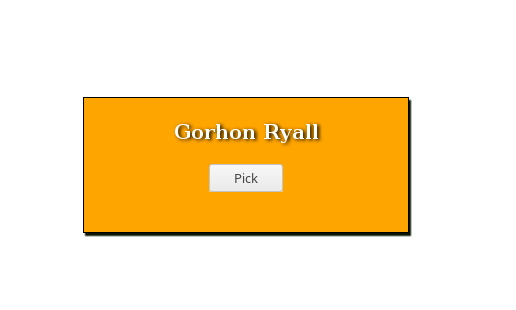
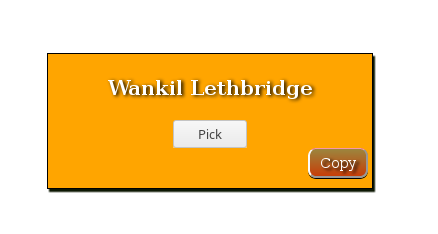
Copy to clipboard

Changed region(s): [[0.089, 0.2094, 0.8607, 0.8376], [0.3858, 0.5085, 0.5639, 0.6581]]

diff --git a/RandomNamePicker/web/templates/index.html b/RandomNamePicker/web/templates/index.html
@@ -28,16 +28,62 @@
         p{
             font-size: 20px;
        }
+       button {
+            margin-left: 80%;
+            border-top: 1px solid #f797a9;
+            background: #c73e08;
+            background: -webkit-gradient(linear, left top, left bottom, from(#9c863e), to(#c73e08));
+            background: -webkit-linear-gradient(top, #9c863e, #c73e08);
+            background: -moz-linear-gradient(top, #9c863e, #c73e08);
+            background: -ms-linear-gradient(top, #9c863e, #c73e08);
+            background: -o-linear-gradient(top, #9c863e, #c73e08);
+            padding: 5px 10px;
+            -webkit-border-radius: 8px;
+            -moz-border-radius: 8px;
+            border-radius: 8px;
+            -webkit-box-shadow: rgba(0,0,0,1) 0 1px 0;
+            -moz-box-shadow: rgba(0,0,0,1) 0 1px 0;
+            box-shadow: rgba(0,0,0,1) 0 1px 0;
+            text-shadow: rgba(0,0,0,.4) 0 1px 0;
+            color: #ffffff;
+            font-size: 14px;
+            font-family: Georgia, Serif;
+            text-decoration: none;
+            vertical-align: middle;
+            text-shadow: 3px 2px 2px black;
+        }
+        button:hover {
+            cursor: pointer;
+            border-top-color: #b30707;
+            background: #b30707;
+            color: #white;
+        }
+        button:active {
+             border-top-color: #c21f7e;
+             background: #c21f7e;
+        }
     </style>
 
-    <div style="">
-        <form method="post">
-            <p>{{name}}</p>
-            <input type="submit" value="Pick">
-        </form>
+    <div>
+        <p>{{name}}</p>
+        <form method="post">     
+            <input type="submit" value="Pick">  
+        </form>   
+        <button onclick="copyToClipboard()">Copy</button>  
     </div>
+  
+<script>
+    function copyToClipboard(){
+        var generatedName = "{{name}}";
+        var dummy = document.createElement("input");
+        document.body.appendChild(dummy);
+        dummy.setAttribute("id",  "dummyId");
+        document.getElementById("dummyId").value = generatedName;
+        dummy.select();
+        document.execCommand("copy");
+        document.body.removeChild(dummy);
+    }
+</script>
 
 </body>
-
-
 </html>

diff --git a/RandomNamePicker/generator.py b/RandomNamePicker/generator.py
@@ -5,7 +5,7 @@ import pickle
 
 def get_random_surname():
     line = random.choice(open("surnames.txt").readlines())
-    return ''.join(line[0].upper() + line[1:])
+    return ''.join(line[0].upper() + line[1:len(line)-1])
 
 
 def random_name_pick():
@@ -13,8 +13,8 @@ def random_name_pick():
     paths = pickle.load(file)
     file.close()
 
-    first_path = paths["prefixes"][random.randint(0, len(paths["prefixes"]) - 1)]
-    second_path = paths["suffixes"][random.randint(0, len(paths["suffixes"]) - 1)]
+    first_path = paths["prefixes"][random.randint(0, len(paths["prefixes"])-1)]
+    second_path = paths["suffixes"][random.randint(0, len(paths["suffixes"])-1)]
 
     surname = get_random_surname()
 
